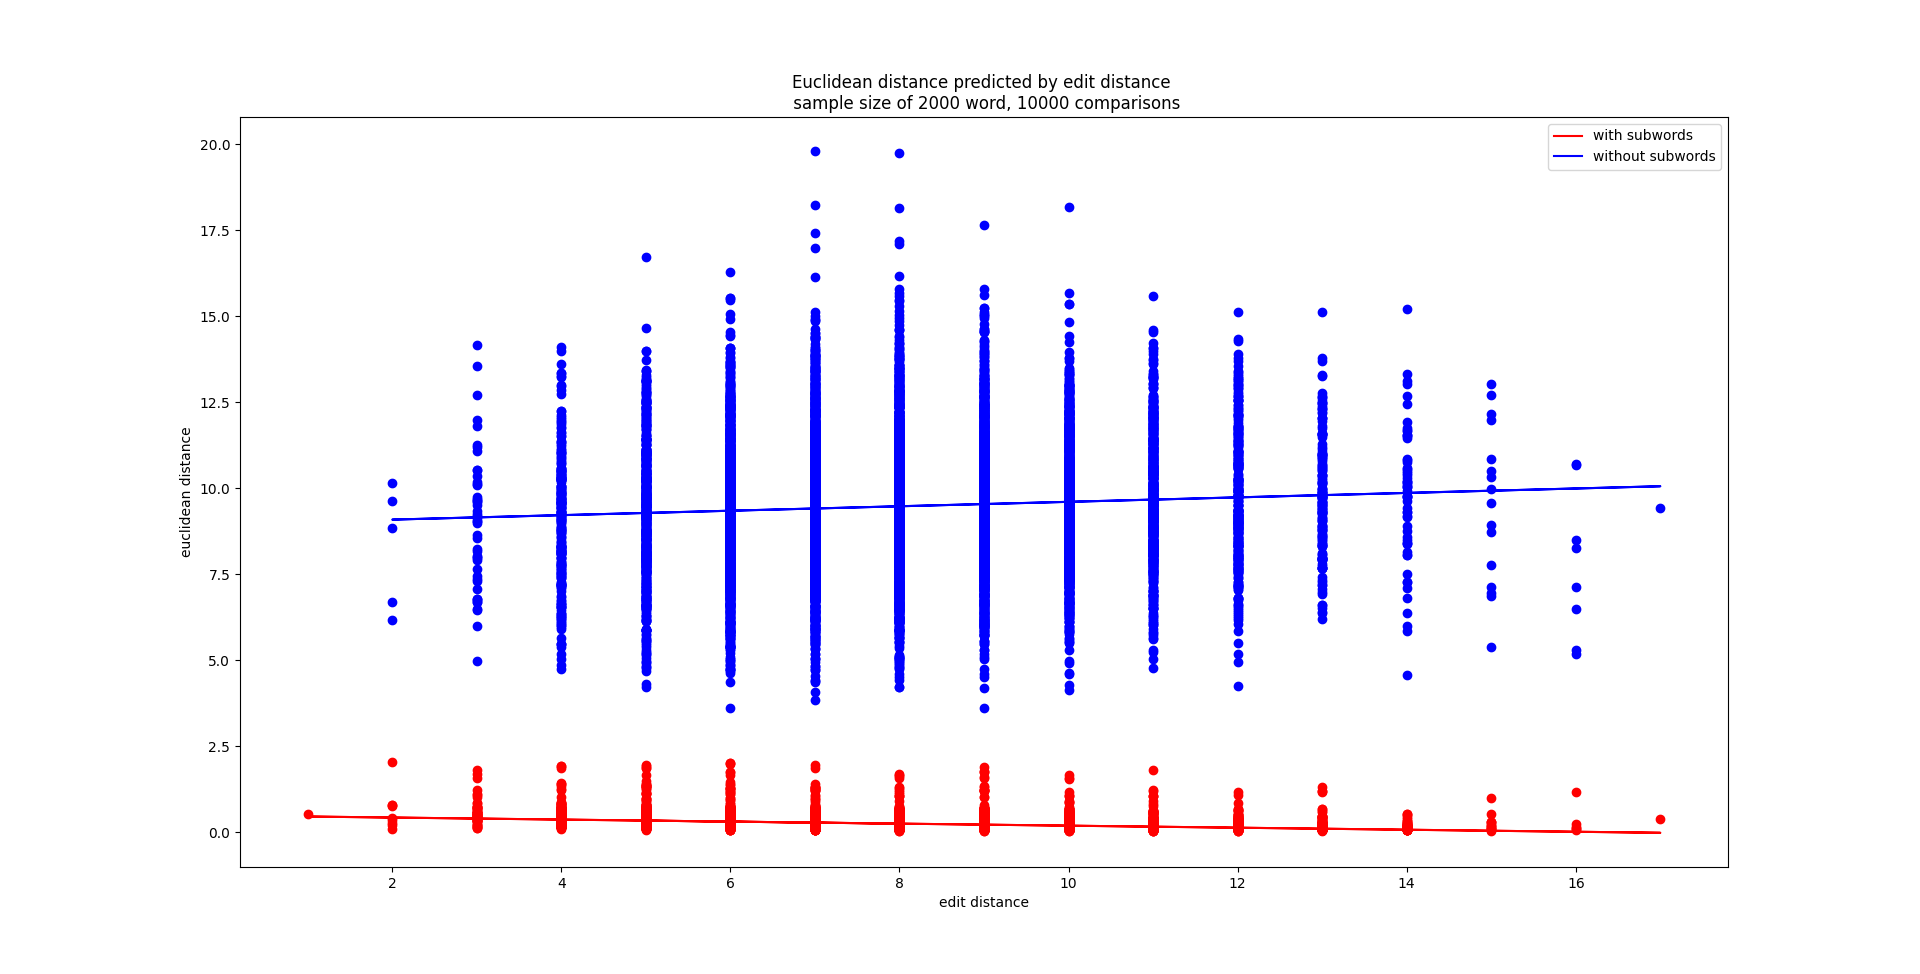
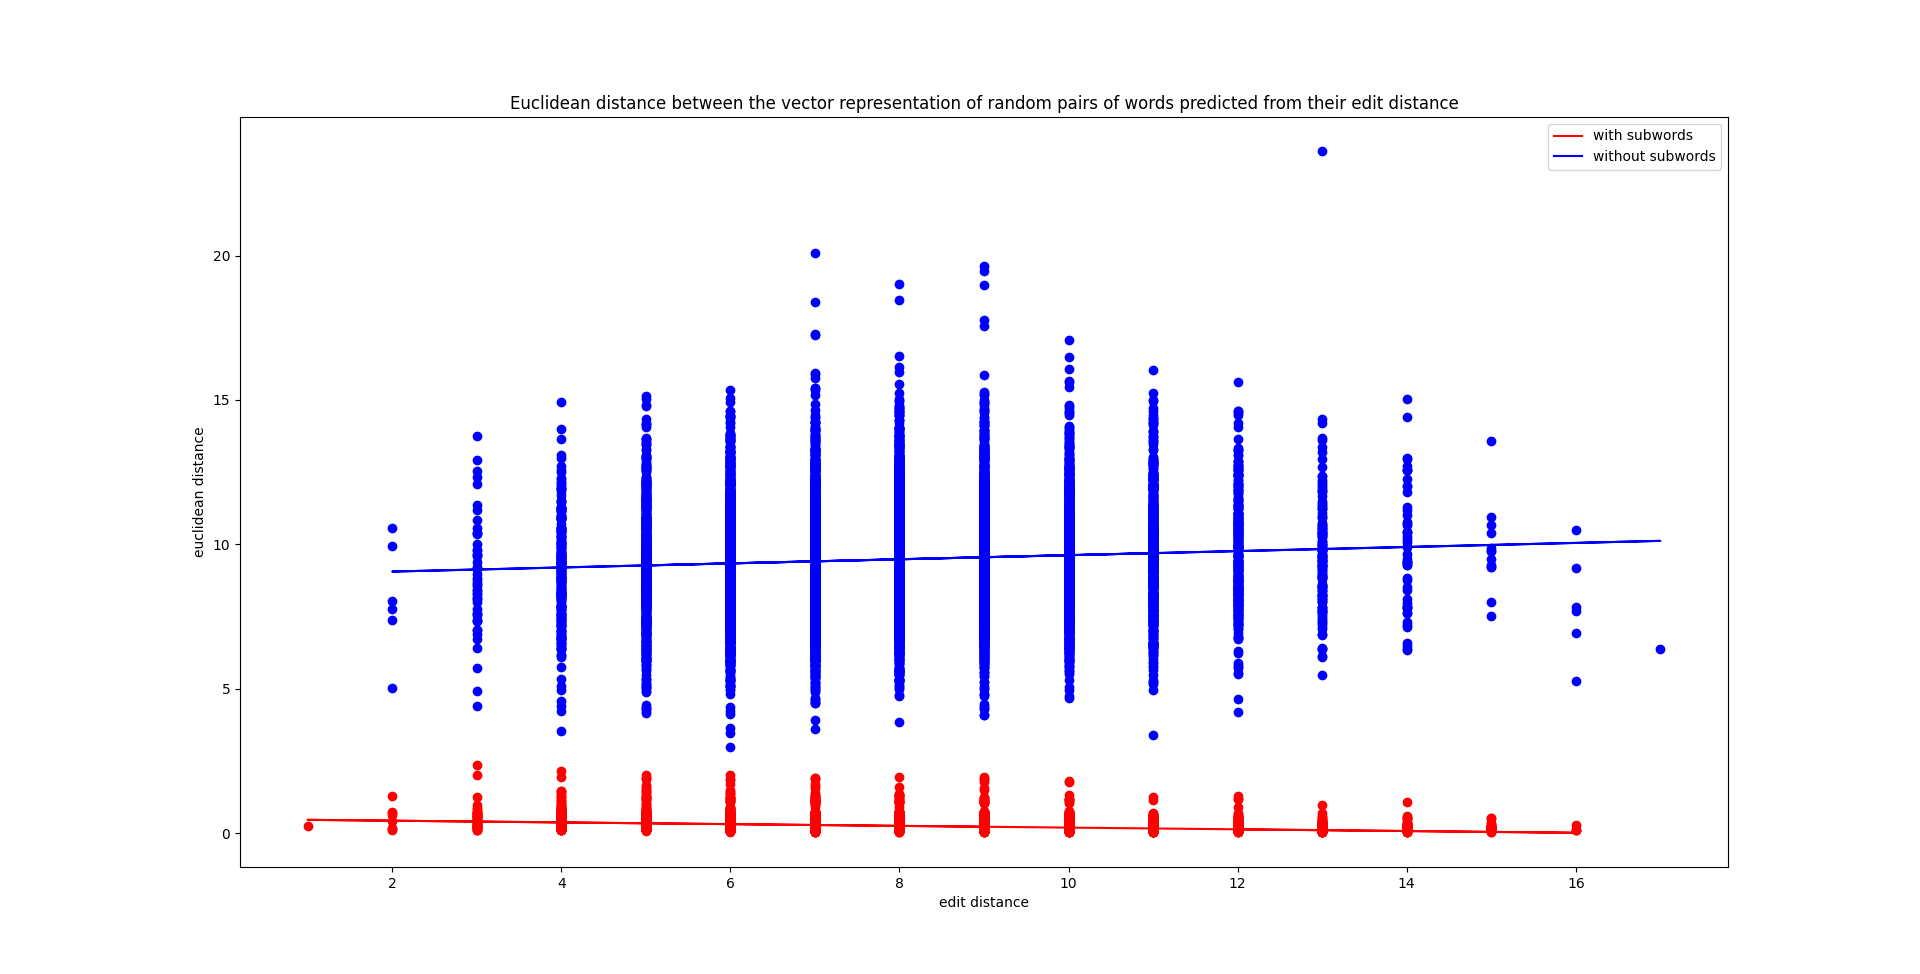
Renamed some of the graphs

diff --git a/morphologically_related.py b/morphologically_related.py
@@ -41,7 +41,7 @@ plt.plot(edit_d[:10000], sp_cosine_without.intercept + sp_cosine_without.slope*n
 plt.scatter(edit_d[:10000], cosine_s_sw[:10000], color = 'red')
 plt.scatter(edit_d[:10000], cosine_s_no_sw[:10000], color = 'blue')
 
-plt.title('cosine similarity predicted from edit distance \n sample size 10000 word pairs')
+plt.title('Cosine similarity between the vector representation of pairs of morphologically related words predicted from their edit distance')
 plt.xlabel('edit distance')
 plt.ylabel('cosine similarity')
 plt.legend()
@@ -56,7 +56,7 @@ plt.plot(edit_d[:10000], sp_euclid_without.intercept + sp_euclid_without.slope*n
 plt.scatter(edit_d[:10000], euclid_d_sw[:10000], color = 'red')
 plt.scatter(edit_d[:10000], euclid_d_no_sw[:10000], color = 'blue')
 
-plt.title('euclidean distance predicted from edit distance \n sample size 10000 word pairs')
+plt.title('Euclidean distance between the vector representation of pairs of morphologically related words predicted from their edit distance')
 plt.xlabel('edit distance')
 plt.ylabel('euclidean distance')
 plt.legend()

diff --git a/cosine_similarity.py b/cosine_similarity.py
@@ -42,7 +42,7 @@ plt.plot(no_sw_edists, [sum(no_sw_cosines)/len(no_sw_cosines)]*len(no_sw_edists)
     color = 'teal', label = 'baseline without sw')
 '''
 
-plt.title('Cosine similarity predicted from edit distance \n(10000 word pairs, from a sample 2000 words)')
+plt.title('Cosine similarity between the vector representation of random pairs of words predicted from their edit distance')
 plt.xlabel('edit distance')
 plt.ylabel('cosine similarity')
 plt.legend()

diff --git a/plot_euclidean_distances.py b/plot_euclidean_distances.py
@@ -49,7 +49,7 @@ plt.plot(no_sw_edists, [sum(no_sw_eucld)/len(no_sw_eucld)]*len(no_sw_edists), \
     color = 'teal', label = 'baseline without sw')
 """
 
-plt.title('Euclidean distance predicted by edit distance \n sample size of 2000 word, 10000 comparisons')
+plt.title('Euclidean distance between the vector representation of random pairs of words predicted from their edit distance')
 plt.xlabel('edit distance')
 plt.ylabel('euclidean distance')
 plt.legend()
